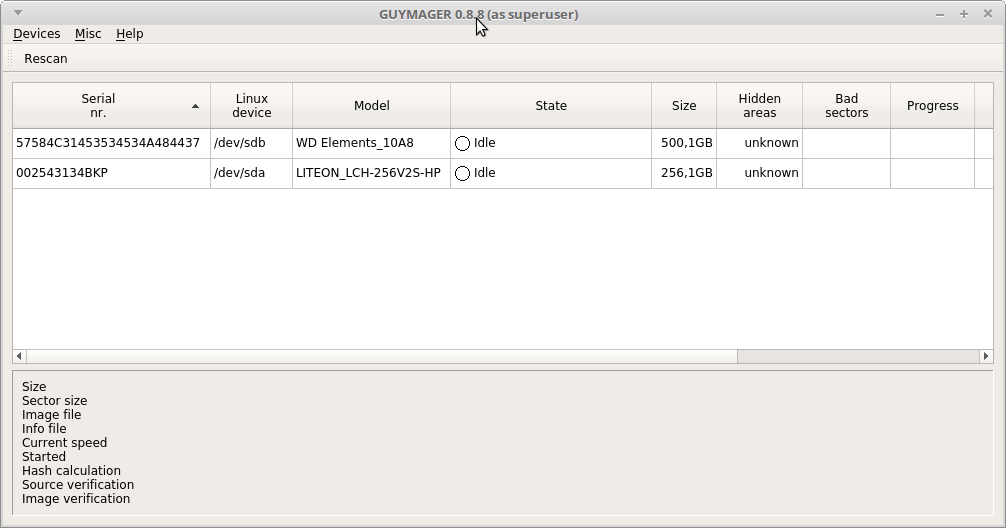
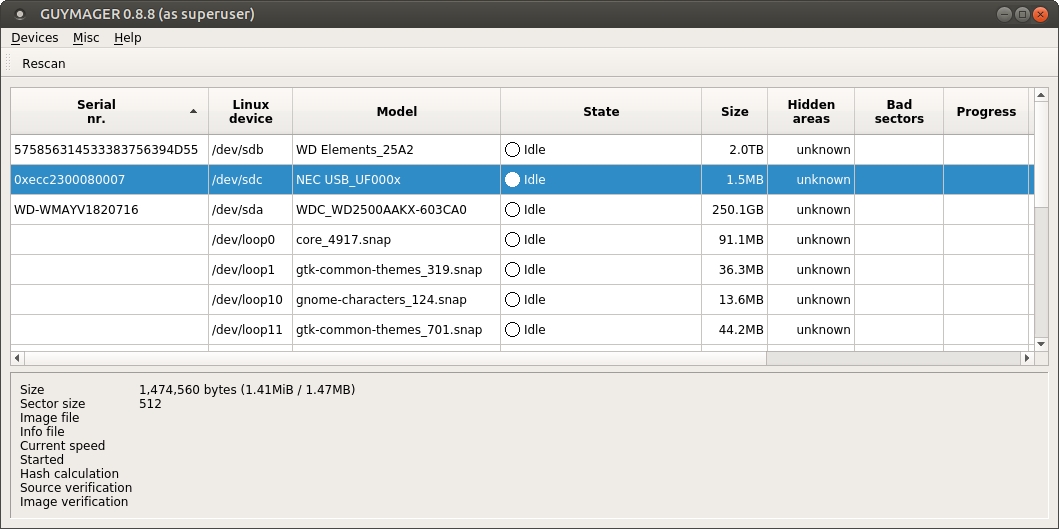
updated floppy rocedure

Changed region(s): [[0.0, 0.0, 1.0, 1.0]]

diff --git a/doc/floppy-35.md b/doc/floppy-35.md
@@ -6,36 +6,41 @@
 
 ## Hardware
 
-### Floppy reader
+### Floppy disk drive
 
 |**Model**|[BaseTech USB Floppy Disk Drive refurbished](https://web.archive.org/web/20181008141513/http://www.produktinfo.conrad.com/datenblaetter/1100000-1199999/001170561-an-01-ml-BASETECH_FLOPPY_LAUFWERK_USB_de_en_fr_nl.pdf)|
 |:--|:--|
 |**Connection**|USB 2.0/1.1|
 |**Type of floppy disk**|High Density (2HD) 1.44 MByte,Normal Density (2DD), 720 kByte|
 
+### Write blocker
+
+|**Model**|[Tableau Forensic USB 3.0 Bridge](https://www.guidancesoftware.com/tableau/hardware/t8u)|
+|:--|:--|
+|**Connectors: Host (Left) Side**|USB 3.0 Standard-B connector|
+|**Connectors: Device (Right) Side**|USB 3.0 Standard-A connector|
+
+## Connecting the write blocker
+
+1. Hook up the write blocker to the workstation using the blue USB cable (use the left-hand port on the write blocker).
+
+2. Connect the write blocker' s power supply to the DC In (at top) and make sure the power cord is plugged into to a power socket.
+
 ## Procedure for creating a disk image
 
 ### Guymager
 
-1. Start Guymager. Result:
-
-    ![](./img/floppy-35-guymager1.png)
+1. Connect the floppy disk to the right-hand USB connector on the write blocker.
 
 2. Make sure the floppy's square write-protection tab is enabled (the hole in the corner of the disk must be uncovered).
 
-3. Insert the floppy into the reader.
+3. Insert the floppy into the floppy disk drive.
 
-4. Press the *rescan* button in Guymager (top). Result:
+4. Start Guymager. Result:
 
-    ![](./img/floppy-35-guymager2.png)
+    ![](./img/floppy-35-guymager1.png)
 
-5. In Guymager, click on the entry for the floppy device. Result:
-
-    ![](./img/floppy-35-guymager3.png)
-
-6. Right-click and select *Acquire image*:
-
-    ![](./img/floppy-35-guymager4.png)
+5. Select the floppy device from the list (in particular , look at the *Size* field), right-click on it and select *Acquire image*
 
 7. In the *Acquire image* dialog, make the following settings:
 
@@ -45,15 +50,23 @@
     - Check *Calculate SHA-256* (and uncheck the *MD5* and *SHA-1* options).
     - Check *Verify image after acquisition*.
 
-    ![](./img/floppy-35-guymager5.png)
+    ![](./img/floppy-35-guymager2.png)
 
 8. Press the *Start* button and watch the progress indicator.
 
 9. If all went well, the *State* field will read *Finished - Verified & ok*.
 
-    ![](./img/floppy-35-guymager6.png)
+    ![](./img/floppy-35-guymager3.png)
 
 The above steps result in two files:
 
 - A file with extension *.dd*, which is the actual disk image.
 - A file with extension *.info*, which contains information about the imaging process.
+
+10. Remove the floppy from the floppy disk drive.
+
+## Remarks
+
+1. If we first eject the floppy device from the file manager, any newly inserted floppies are not mounted (switching the write blocker off and on fixes this)
+
+2. Using a write blocker may be overkill if we also use the write protection tabs on the floppies? (Then again, better safe than sorry.)
